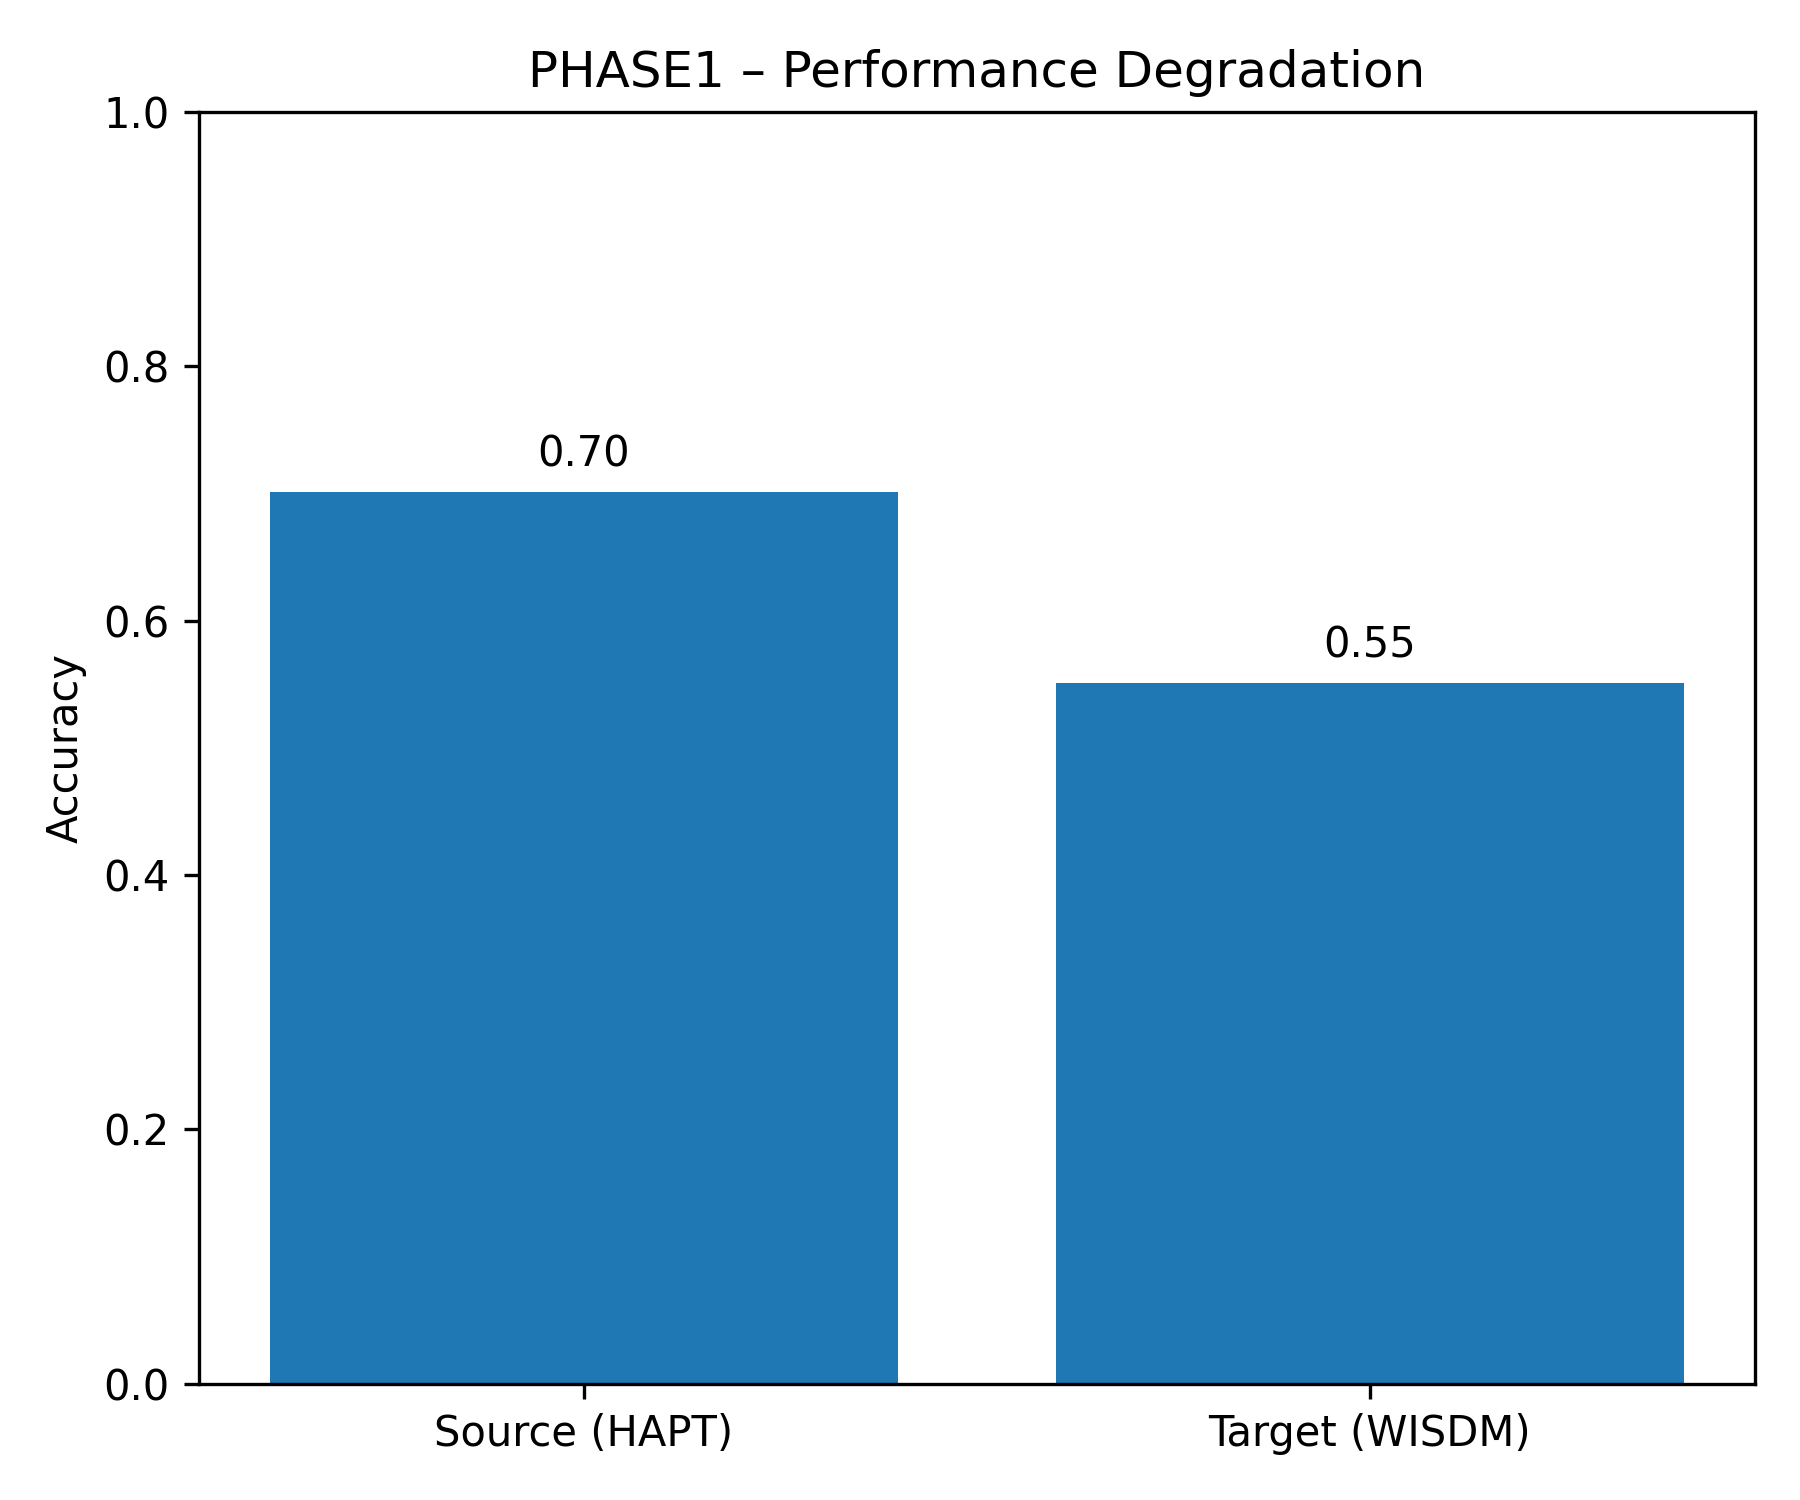
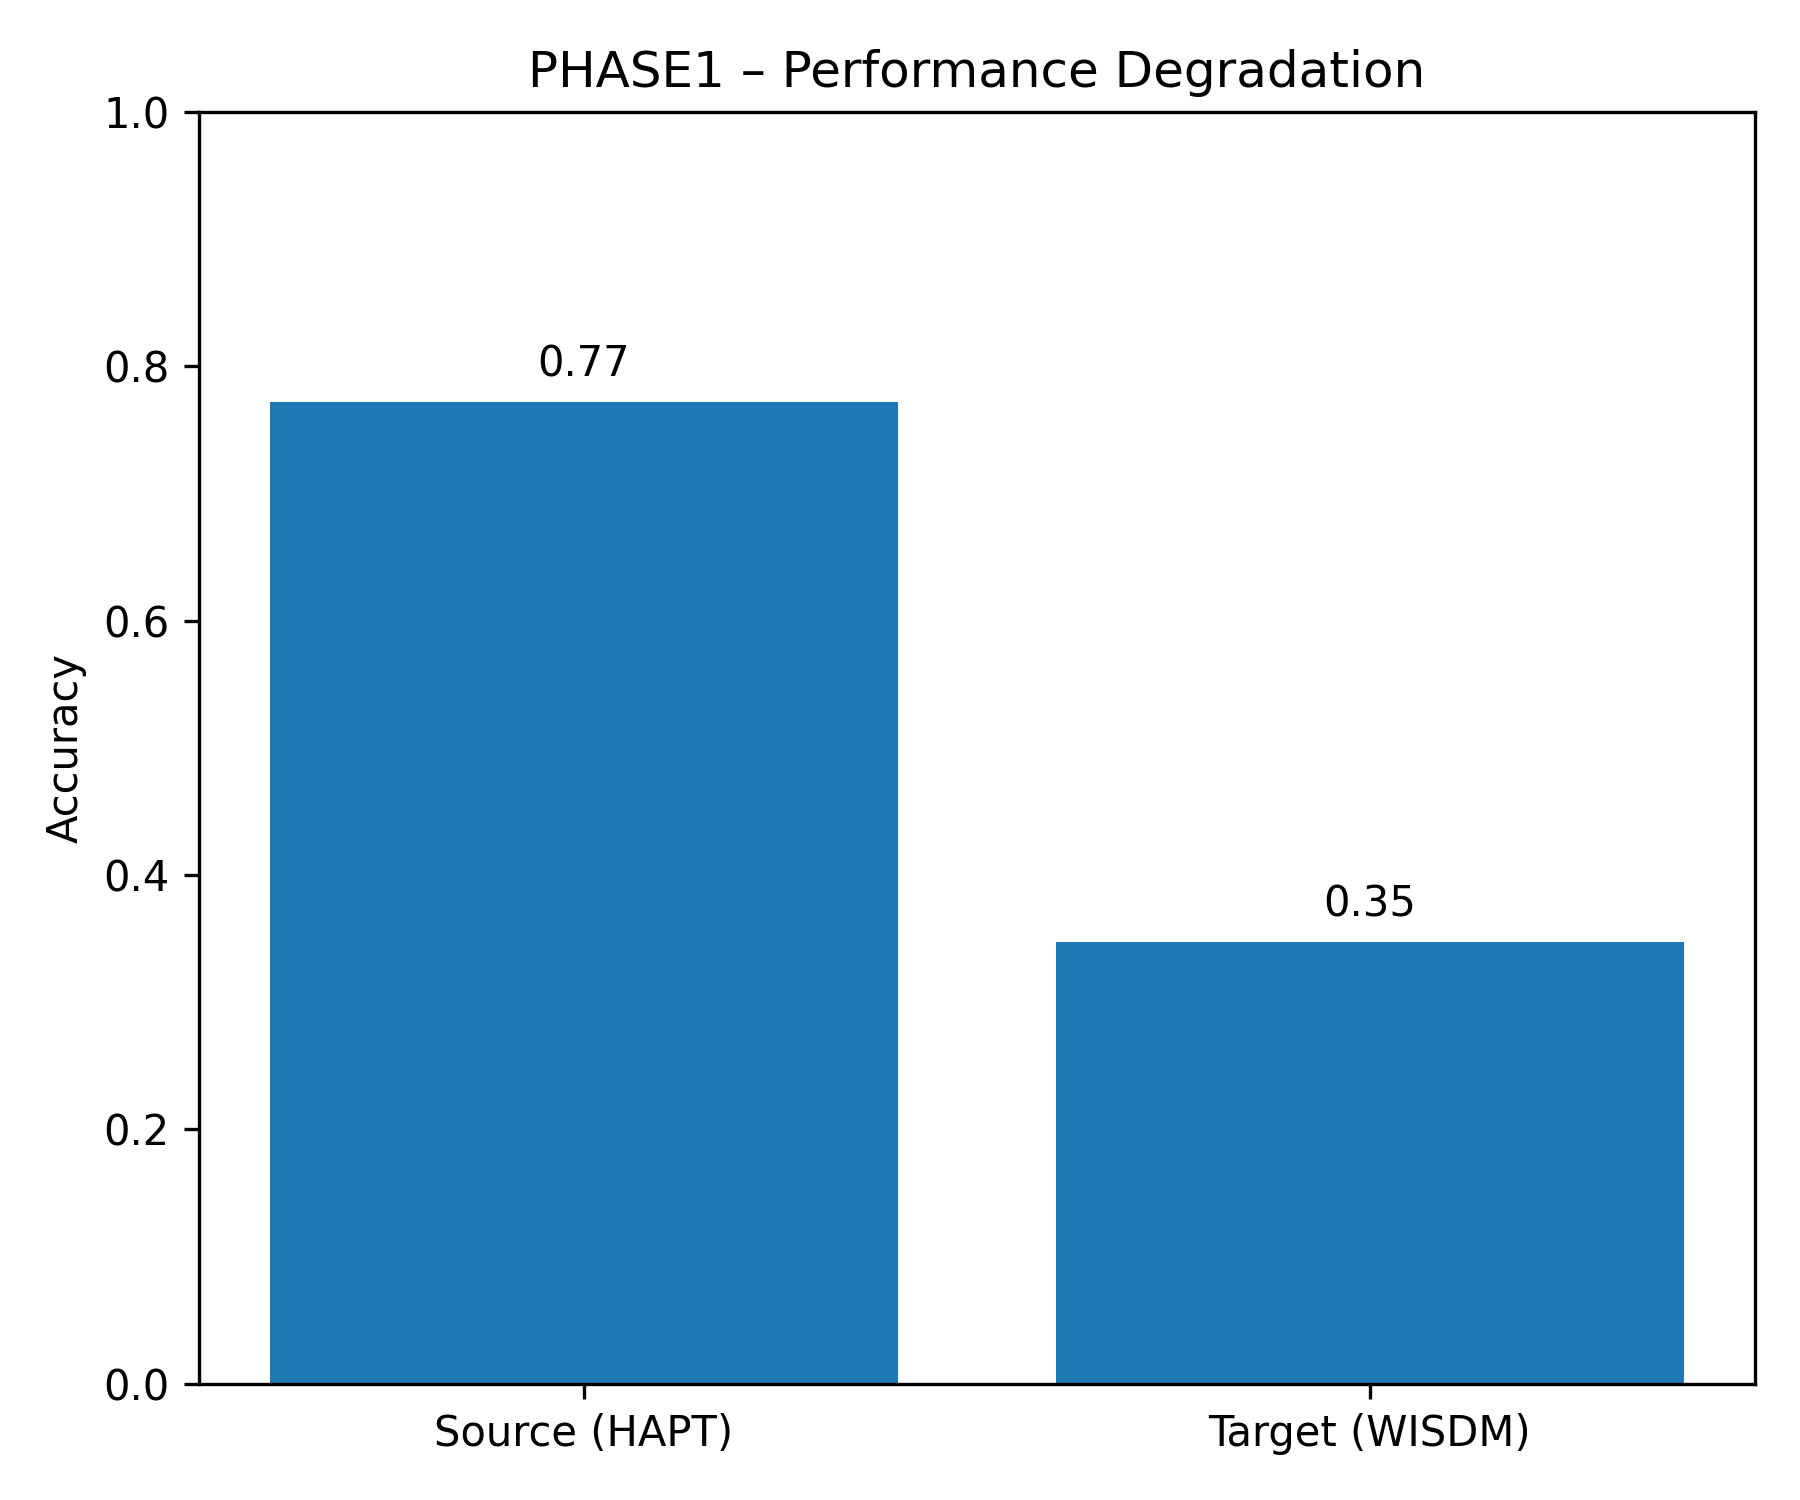
Rebuild true 61-feature Phase 1 extractor; rerun with corrected stacking
Recovered the true Phase 1 (61-feature) compute_features_for_window()
logic from the old archived repo (Human-Activity-Recognition-Enhanced-,
commit 761aab0^) and gated the 19 Phase-2-only posture features
(gravity/tilt, vertical/horizontal energy, jerk) behind
`if PHASE_TAG == "phase2":` in feature_extraction_WISDM.py. Since
feature_extraction_HAPT.py imports its feature logic directly from that
same function, this fixes both datasets at once. PHASE_TAG is now
threaded consistently through feature_extraction_WISDM.py,
feature_extraction_HAPT.py, analysis_feature_dataset.py, and
cross_dataset_hapt_to_wisdm.py so either phase can be regenerated by
toggling one variable.

Validated the regenerated 61-feature output's column count and feature
names/order against the old repo's committed feature_names.txt before
trusting it.

results/phase1/ now holds the true Phase 1 numbers under the corrected
single-level stacking architecture (HAPT train 0.7719, WISDM test
0.3476), rerun from the recovered 61-feature data. Old buggy-stack Phase
1 numbers (HAPT 0.7010, WISDM 0.5510) preserved at
results/phase1_prefix_archive/. results/phase2/ and Phase 3 untouched.
PHASE_TAG left at "phase2" (the default going forward) in all scripts
after the phase1 regeneration run.

Changed region(s): [[0.56, 0.3987, 0.9333, 0.644], [0.1244, 0.2453, 0.4978, 0.3373]]

diff --git a/src/feature_extraction_WISDM.py b/src/feature_extraction_WISDM.py
@@ -177,54 +177,55 @@ def compute_features_for_window(windows):
 
        
        
-    # ============================
-    # PHASE 2: POSTURE FEATURES
-    # ============================
+    if PHASE_TAG == "phase2":
+        # ============================
+        # PHASE 2: POSTURE FEATURES
+        # ============================
 
-    # --- Gravity / orientation ---
-    gx, gy, gz = np.mean(x), np.mean(y), np.mean(z)
-    g_norm = np.sqrt(gx**2 + gy**2 + gz**2) + 1e-12
+        # --- Gravity / orientation ---
+        gx, gy, gz = np.mean(x), np.mean(y), np.mean(z)
+        g_norm = np.sqrt(gx**2 + gy**2 + gz**2) + 1e-12
 
-    ux, uy, uz = gx / g_norm, gy / g_norm, gz / g_norm
+        ux, uy, uz = gx / g_norm, gy / g_norm, gz / g_norm
 
-    features["g_norm"] = g_norm
-    features["g_unit_x"] = ux
-    features["g_unit_y"] = uy
-    features["g_unit_z"] = uz
+        features["g_norm"] = g_norm
+        features["g_unit_x"] = ux
+        features["g_unit_y"] = uy
+        features["g_unit_z"] = uz
 
-    features["tilt_x"] = np.arccos(np.clip(ux, -1.0, 1.0))
-    features["tilt_y"] = np.arccos(np.clip(uy, -1.0, 1.0))
-    features["tilt_z"] = np.arccos(np.clip(uz, -1.0, 1.0))
+        features["tilt_x"] = np.arccos(np.clip(ux, -1.0, 1.0))
+        features["tilt_y"] = np.arccos(np.clip(uy, -1.0, 1.0))
+        features["tilt_z"] = np.arccos(np.clip(uz, -1.0, 1.0))
 
-    # --- Vertical / horizontal decomposition ---
-    a = windows
-    g_unit = np.array([ux, uy, uz])
+        # --- Vertical / horizontal decomposition ---
+        a = windows
+        g_unit = np.array([ux, uy, uz])
 
-    a_vert = a @ g_unit
-    a_horiz = np.sqrt(np.maximum(0.0, np.sum(a*a, axis=1) - a_vert*a_vert))
+        a_vert = a @ g_unit
+        a_horiz = np.sqrt(np.maximum(0.0, np.sum(a*a, axis=1) - a_vert*a_vert))
 
-    features["vert_energy"] = np.mean(a_vert**2)
-    features["vert_std"] = np.std(a_vert)
-    features["horiz_energy"] = np.mean(a_horiz**2)
-    features["vert_horiz_ratio"] = features["vert_energy"] / (features["horiz_energy"] + 1e-12)
+        features["vert_energy"] = np.mean(a_vert**2)
+        features["vert_std"] = np.std(a_vert)
+        features["horiz_energy"] = np.mean(a_horiz**2)
+        features["vert_horiz_ratio"] = features["vert_energy"] / (features["horiz_energy"] + 1e-12)
 
-    # --- Jerk features ---
-    jx = np.diff(x)
-    jy = np.diff(y)
-    jz = np.diff(z)
-    jerk_mag = np.sqrt(jx**2 + jy**2 + jz**2)
+        # --- Jerk features ---
+        jx = np.diff(x)
+        jy = np.diff(y)
+        jz = np.diff(z)
+        jerk_mag = np.sqrt(jx**2 + jy**2 + jz**2)
 
-    features["jerk_mag_mean"] = np.mean(jerk_mag)
-    features["jerk_mag_std"] = np.std(jerk_mag)
-    features["jerk_mag_energy"] = np.mean(jerk_mag**2)
-    features["jerk_mag_max"] = np.max(jerk_mag)
-    features["jerk_mag_iqr"] = np.percentile(jerk_mag, 75) - np.percentile(jerk_mag, 25)
+        features["jerk_mag_mean"] = np.mean(jerk_mag)
+        features["jerk_mag_std"] = np.std(jerk_mag)
+        features["jerk_mag_energy"] = np.mean(jerk_mag**2)
+        features["jerk_mag_max"] = np.max(jerk_mag)
+        features["jerk_mag_iqr"] = np.percentile(jerk_mag, 75) - np.percentile(jerk_mag, 25)
 
-    # Zero-crossing rate (micro-adjustments)
-    features["jerk_zero_crossings_x"] = np.mean(np.diff(np.sign(jx)) != 0)
-    features["jerk_zero_crossings_y"] = np.mean(np.diff(np.sign(jy)) != 0)
-    features["jerk_zero_crossings_z"] = np.mean(np.diff(np.sign(jz)) != 0)   
-    
+        # Zero-crossing rate (micro-adjustments)
+        features["jerk_zero_crossings_x"] = np.mean(np.diff(np.sign(jx)) != 0)
+        features["jerk_zero_crossings_y"] = np.mean(np.diff(np.sign(jy)) != 0)
+        features["jerk_zero_crossings_z"] = np.mean(np.diff(np.sign(jz)) != 0)
+
     # === MAGNITUDE-BASED FEATURES (7 features) ===
     magnitude = np.sqrt(x**2 + y**2 + z**2)
     features['magnitude_mean'] = np.mean(magnitude)
@@ -521,7 +522,7 @@ if __name__ == "__main__":
 
     # Place the raw WISDM dataset (smartphone+smartwatch raw/ folder) here (see README "Data" section).
     raw_folder = str(DATA_DIR / "raw" / "wisdm")
-    output_folder = str(DATA_DIR / "interim" / "wisdm_phase2")
+    output_folder = str(DATA_DIR / "interim" / f"wisdm_{PHASE_TAG}")
 
 
     # Run full pipeline (remove subset_size for complete dataset)

diff --git a/src/cross_dataset_hapt_to_wisdm.py b/src/cross_dataset_hapt_to_wisdm.py
@@ -25,8 +25,9 @@ from xgboost import XGBClassifier
 REPO_ROOT = Path(__file__).resolve().parents[1]
 DATA_DIR = REPO_ROOT / "data"
 
-PHASE_TAG = "phase2"  # this script only ever produces 80-feature output (Phase 2 methodology);
-                       # Phase 1's 61-feature extractor code no longer exists in this repo.
+PHASE_TAG = "phase2"  # "phase1" = 61 features, "phase2" = 80 features. Must match
+                       # PHASE_TAG in feature_extraction_WISDM.py / _HAPT.py / analysis_feature_dataset.py
+                       # used to regenerate the data/interim/*_{PHASE_TAG} folders this script reads.
 
 RESULTS_DIR = os.path.join("results", PHASE_TAG)
 os.makedirs(RESULTS_DIR, exist_ok=True)
@@ -34,14 +35,14 @@ os.makedirs(RESULTS_DIR, exist_ok=True)
 LABELS = ["WALKING", "SITTING", "STANDING"]
 
 # Load HAPT (source). Regenerate via src/feature_extraction_HAPT.py
-# into data/interim/hapt_3class_output_phase2/ before running this script.
-X_train = np.loadtxt(DATA_DIR / "interim" / "hapt_3class_output_phase2" / "X_hapt.txt")
-y_train = np.loadtxt(DATA_DIR / "interim" / "hapt_3class_output_phase2" / "y_hapt.txt").astype(int)
+# into data/interim/hapt_3class_output_{PHASE_TAG}/ before running this script.
+X_train = np.loadtxt(DATA_DIR / "interim" / f"hapt_3class_output_{PHASE_TAG}" / "X_hapt.txt")
+y_train = np.loadtxt(DATA_DIR / "interim" / f"hapt_3class_output_{PHASE_TAG}" / "y_hapt.txt").astype(int)
 
 # Load WISDM (target). Regenerate via src/analysis_feature_dataset.py
-# into data/interim/Filtered_datasets_and_KS_results/3class_wisdm_phase2/ before running this script.
-X_test = np.loadtxt(DATA_DIR / "interim" / "Filtered_datasets_and_KS_results" / "3class_wisdm_phase2" / "X_filtered.txt")
-y_test = np.loadtxt(DATA_DIR / "interim" / "Filtered_datasets_and_KS_results" / "3class_wisdm_phase2" / "y_filtered.txt").astype(int)
+# into data/interim/Filtered_datasets_and_KS_results/3class_wisdm_{PHASE_TAG}/ before running this script.
+X_test = np.loadtxt(DATA_DIR / "interim" / "Filtered_datasets_and_KS_results" / f"3class_wisdm_{PHASE_TAG}" / "X_filtered.txt")
+y_test = np.loadtxt(DATA_DIR / "interim" / "Filtered_datasets_and_KS_results" / f"3class_wisdm_{PHASE_TAG}" / "y_filtered.txt").astype(int)
 
 # --- FIX WISDM LABEL SEMANTICS (CRITICAL) ---
 # WISDM mapping: 1=SITTING, 2=STANDING, 3=WALKING

diff --git a/src/feature_extraction_HAPT.py b/src/feature_extraction_HAPT.py
@@ -5,7 +5,7 @@ import pandas as pd
 from sklearn.preprocessing import MinMaxScaler
 
 # Reuse exact feature code (critical for alignment)
-from feature_extraction_WISDM import compute_features_for_window
+from feature_extraction_WISDM import compute_features_for_window, PHASE_TAG
 
 
 TARGET_ACTIVITIES = {"WALKING", "SITTING", "STANDING"}
@@ -130,10 +130,11 @@ def extract_hapt_3class_features(
     # Confirm 61 features (excluding metadata)
     metadata_cols = {"activity_uci", "user_id", "exp_id"}
     feature_cols = [c for c in df.columns if c not in metadata_cols]
+    expected = 61 if PHASE_TAG == "phase1" else 80
     print(f"HAPT extracted windows: {len(df):,}")
-    print(f"Feature columns: {len(feature_cols)} (expected: 61)")
-    if len(feature_cols) != 61:
-        print("WARNING: feature count != 61. You may have changed feature logic.")
+    print(f"Feature columns: {len(feature_cols)} (expected: {expected})")
+    if len(feature_cols) != expected:
+        print(f"WARNING: feature count != {expected}. You may have changed feature logic.")
 
     return df
 
@@ -192,7 +193,7 @@ if __name__ == "__main__":
 
     # Place the raw UCI HAPT dataset here (see README "Data" section).
     HAPT_ROOT = str(DATA_DIR / "raw" / "hapt")
-    OUTPUT_DIR = str(DATA_DIR / "interim" / "hapt_3class_output_phase2")
+    OUTPUT_DIR = str(DATA_DIR / "interim" / f"hapt_3class_output_{PHASE_TAG}")
 
     df = extract_hapt_3class_features(HAPT_ROOT, subset_segments=None, window_size=128, overlap=0.5)
     df_norm, _ = normalize_to_minus1_plus1(df)

diff --git a/src/analysis_feature_dataset.py b/src/analysis_feature_dataset.py
@@ -448,8 +448,9 @@ if __name__ == "__main__":
 
     # Place the raw UCI HAR dataset here (see README "Data" section).
     UCI_HAR_DIR = str(DATA_DIR / "raw" / "uci_har")
-    # Output of feature_extraction_WISDM.py (phase2 run).
-    WISDM_DIR = str(DATA_DIR / "interim" / "wisdm_phase2")
+    # Output of feature_extraction_WISDM.py. Must match PHASE_TAG (line ~17 in this
+    # file) and the PHASE_TAG that generated data/interim/wisdm_{PHASE_TAG}/.
+    WISDM_DIR = str(DATA_DIR / "interim" / f"wisdm_{PHASE_TAG}")
     OUTPUT_DIR = str(DATA_DIR / "interim" / "Filtered_datasets_and_KS_results")
 
     # ==== PRIMARY: 3-CLASS ANALYSIS ====
